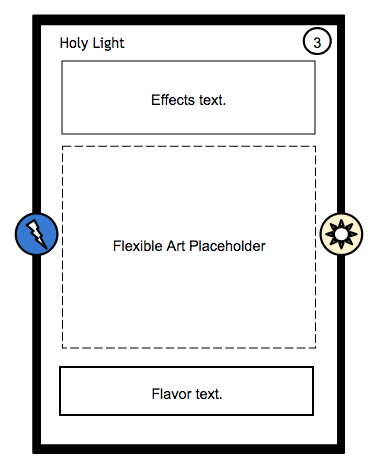
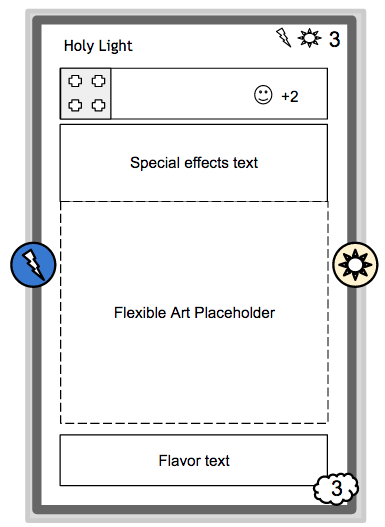
Updated card image and some descriptions.

Changed region(s): [[0.0, 0.0, 1.0, 1.0], [0.2941, 0.5672, 0.7059, 0.6269], [0.2941, 0.5075, 0.7059, 0.5373]]

diff --git a/source/_drafts/Initial-Card-Designs-and-Evolution-of-Game-Rules.md b/source/_drafts/Initial-Card-Designs-and-Evolution-of-Game-Rules.md
@@ -1,6 +1,9 @@
 title: Initial Card Designs and Evolution of Game Rules
 date: 2015-07-04 10:45:33
-category: design
+category:
+ - W&W
+ - design
+ - cards
 author: Chris Saylor
 tags:
   - design
@@ -15,7 +18,7 @@ Over lunch, Steve and I had a _design sprint_ where the main topic was to discus
 
 The card itself needs to convey important information to the player about what the card can do and how to play it, but we also wanted to leave some space to allow for flavor text and art, otherwise it would be boring!
 
-Our design decisions will always favor functionality first, so with that in mind, Priority of card information flows from top-to-bottom. Name, cost, effects, are at the top, while art and flavor text would be at the bottom.
+Our design decisions will always favor functionality first, so with that in mind, priority of card information flows from top-to-bottom. Name, dice count, and effects are at the top, while art and flavor text would be at the bottom.
 
 ![](/img/card-design-spell-v1.png)
 
@@ -23,7 +26,7 @@ Our design decisions will always favor functionality first, so with that in mind
 
 ## Card Ports
 
-Up until this point in order to construct and play a spell, the player could match like-element/artifact types a maximum of three spell cards together. One of the first concepts we discussed was the idea of cards having _ports_. This idea was to add a positional element to how the player can join spells together. Prior to this idea, you could match two spell cards together as long as they shared a common type (fire, sword, etc). Now, they have to match a type and a positional indicated by the port. Since we can control card linkage at the card level, this allowed us to remove the arbitrary three card limit of the spell.
+Up until this point in order to construct and play a spell, the player could match by element or artifact types up to a maximum of three spell cards together. One of the first concepts we discussed was the idea of cards having _ports_. This idea was to add a positional element to how the player can join spells together. Now the matching of spell cards is based on the port types positioned on the sides of the card. Since we can control card linkage at the card level, this allowed us to remove the arbitrary three card limit of the spell.
 
 ![](/img/card-ports.png)
 
@@ -31,9 +34,9 @@ Up until this point in order to construct and play a spell, the player could mat
 
 ## Dynamic Card Content
 
-With the game being digital, we have the luxary of being able to hide, expand, and otherwise modify the card on the fly. Certain parts of the card are only relevant at certain times. For example, the _energy_ cost is important when obtaining a card from the _Grimoire_ or _Library_, but are not useful when they are in your hand. This means our card design needs to be modular to be able to display different information depending on what the player is currently doing.
+With the game being digital, we have the luxury of being able to hide, expand, and otherwise modify the card on the fly. Certain parts of the card are only relevant at certain times. For example, the _energy_ cost is important when obtaining a card from the _Grimoire_ or _Library_, but are not useful when they are in your hand. This means our card design needs to be modular to be able to display different information depending on what the player is currently doing.
 
-It also has to be modular in order to support different types of cards. Runes have different display requirements than spells, which have different requirements than energy cards.
+It also has to be modular in order to support different types of cards. Runes have different display requirements than spells, which have different requirements than energy cards. We'll cover all the types of cards available in _Witches and Warlocks_ in a future post.
 
 ---
 
